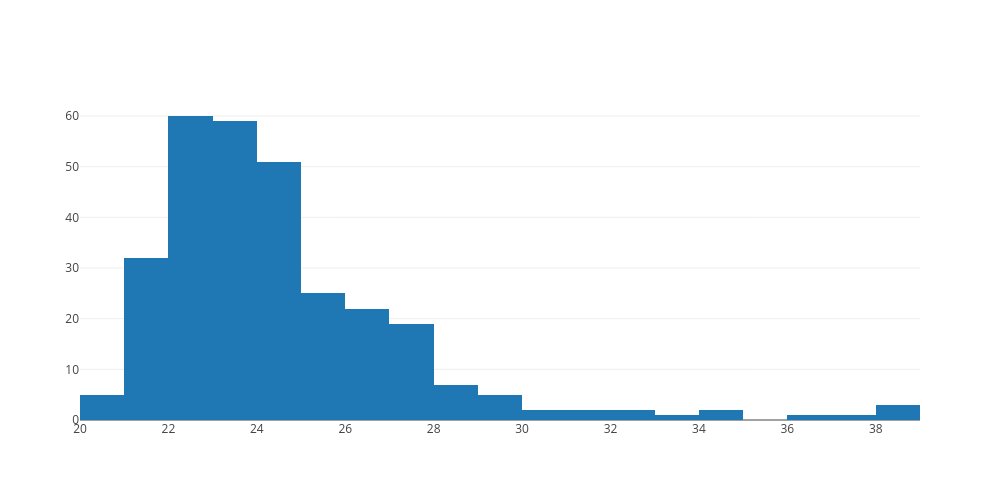
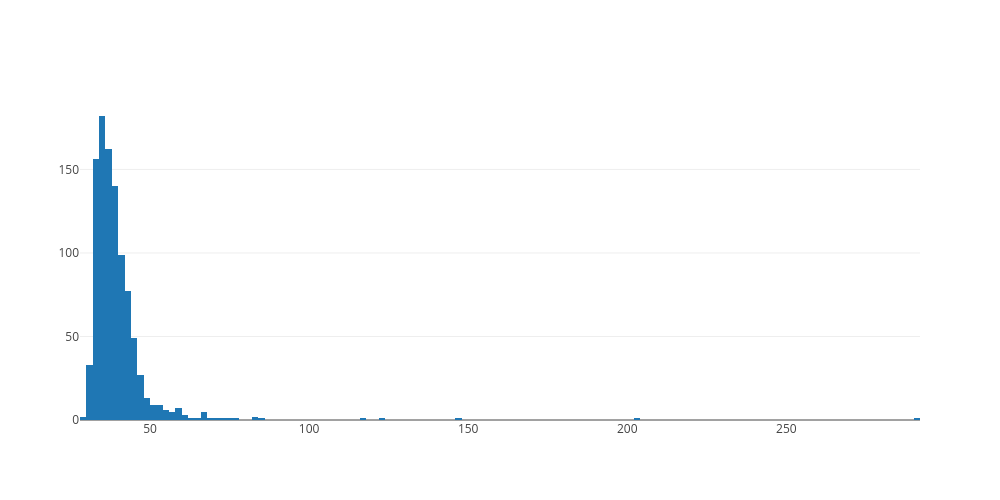
Histogram representation of Frame Times cleaned up

Changed region(s): [[0.062, 0.21, 0.744, 0.87], [0.775, 0.81, 0.93, 0.87], [0.062, 0.21, 0.093, 0.24]]

diff --git a/performance-test/src/puppeteer-test.ts b/performance-test/src/puppeteer-test.ts
@@ -36,7 +36,7 @@ export const testScrollingPerformance = async function () {
   
   const browser = await puppeteer.launch({
     args: ['--no-sandbox', '--enable-thread-instruction-count'],
-    headless: true, // enable for myself, however, when making change enable to true
+    headless: false, // enable for myself, however, when making change enable to true
   })
   const page = await browser.newPage()
   await page.setViewport({ width: 1500, height: 768});
@@ -115,19 +115,6 @@ export const testScrollingPerformance = async function () {
     var fileStream = ffs.createWriteStream('2.png');
     imageStream.pipe(fileStream);
 });
-
-
-
-
-
-
-
-
-
-
-
-
-
 
   console.info(
     `::set-output name=perf-result::"${totalFrameTimes}ms – average frame length: ${frameAvg} – Q1: ${percentile25} – Q2: ${percentile50} – Q3: ${percentile75} – Median: ${percentile50} – frame times: [${frameTimes.join(
